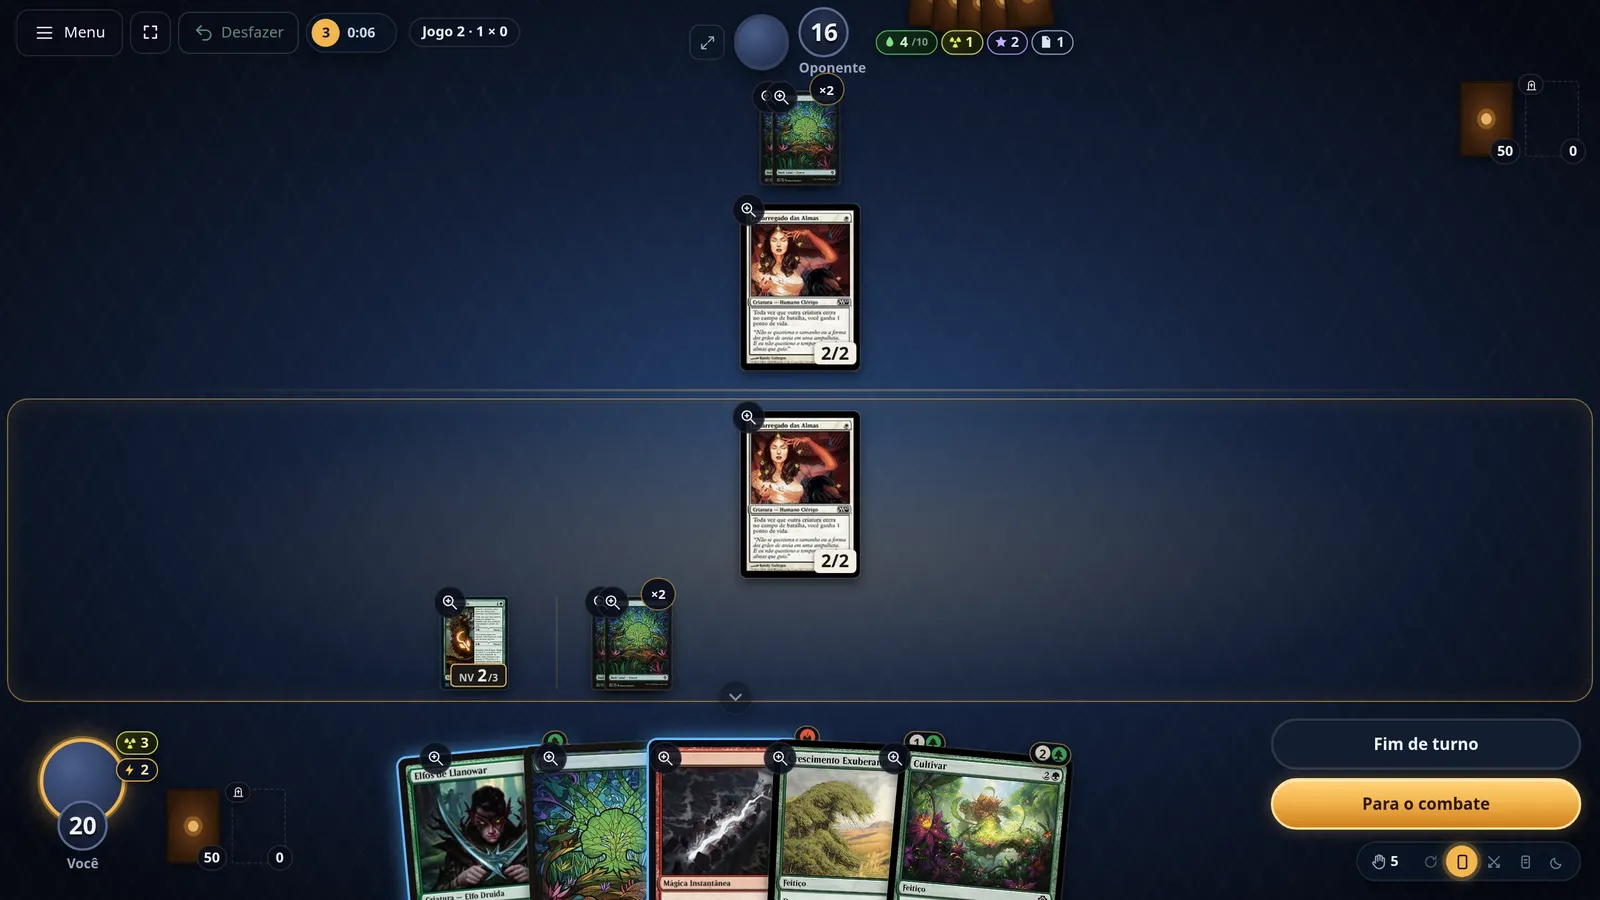
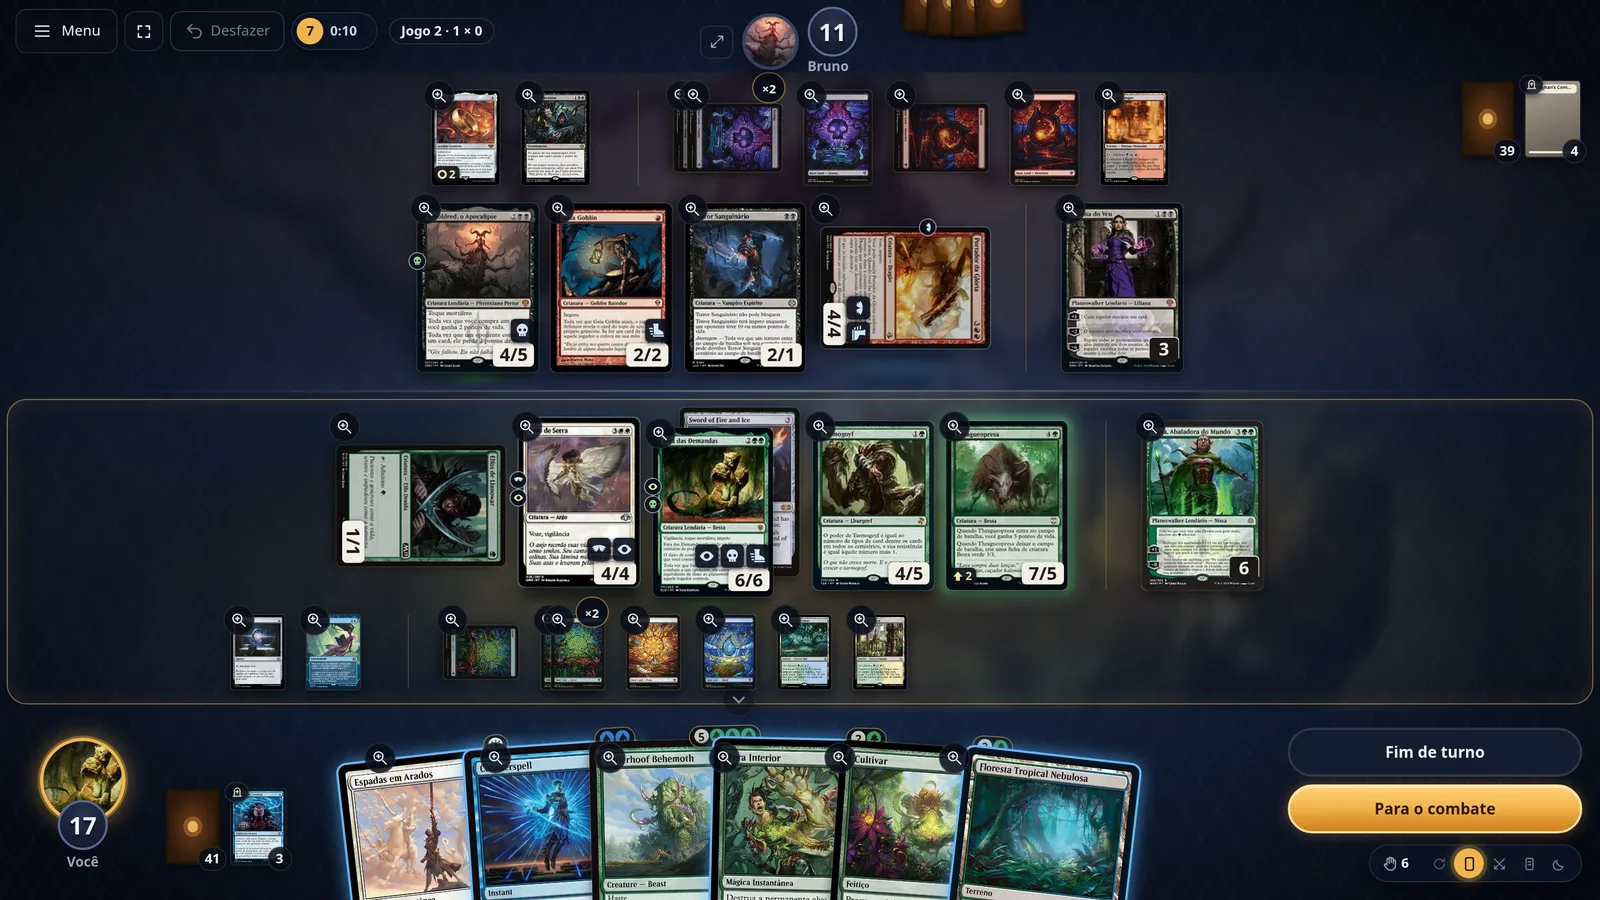
Partida de verdade na abertura da apresentação, com a mesa em destaque e centralizada (0.141.3)
- Imagem nova do alto da /sobre: partida no 7º turno com criaturas,
  planeswalkers, equipamento, artefatos, encantamentos, marcadores e mão
  de seis cartas; versão de 800 px para telas pequenas.
- Coluna da imagem mais larga e centralizada na altura do texto.

diff --git a/sobre.html b/sobre.html
@@ -28,7 +28,7 @@
     <link rel="icon" href="/favicon.ico" sizes="48x48">
     <link rel="icon" type="image/svg+xml" href="/favicon.svg" sizes="any">
     <link rel="apple-touch-icon" href="/apple-touch-icon-180x180.png">
-    <link rel="preload" as="image" href="/sobre/mesa-1x1.webp" type="image/webp">
+    <link rel="preload" as="image" href="/sobre/mesa-1x1.webp" imagesrcset="/sobre/mesa-1x1-800.webp 800w, /sobre/mesa-1x1.webp 1600w" imagesizes="(max-width: 900px) 100vw, 62vw" type="image/webp">
     <link rel="preconnect" href="https://fonts.googleapis.com">
     <link rel="preconnect" href="https://fonts.gstatic.com" crossorigin>
     <link rel="stylesheet" href="https://fonts.googleapis.com/css2?family=Inter:wght@400;600&family=Outfit:wght@700;800&display=optional">
@@ -132,7 +132,7 @@
           </ul>
         </div>
         <figure class="shot hero-shot">
-          <img src="/sobre/mesa-1x1.webp" width="1600" height="900" fetchpriority="high" alt="Partida de Magic na Mesa de Duelo: as cartas na mão embaixo, as criaturas e os terrenos no campo, a vida dos dois jogadores e o botão Para o combate.">
+          <img src="/sobre/mesa-1x1.webp" srcset="/sobre/mesa-1x1-800.webp 800w, /sobre/mesa-1x1.webp 1600w" sizes="(max-width: 900px) 100vw, 62vw" width="1600" height="900" fetchpriority="high" alt="Partida de Magic na Mesa de Duelo no 7º turno: no seu campo, Questing Beast com a Sword of Fire and Ice, Serra Angel, Tarmogoyf e a planeswalker Nissa; no do oponente, Sheoldred, Glorybringer, The One Ring e Liliana of the Veil; embaixo, a sua mão com seis cartas e o botão Para o combate.">
         </figure>
       </section>
 

diff --git a/src/sobre.css b/src/sobre.css
@@ -40,14 +40,14 @@ section[id] { scroll-margin-top: 72px; }
 .btn-ghost:hover { border-color: var(--gold); filter: none; }
 
 h1, h2, h3 { font-family: var(--display); line-height: 1.15; margin: 0; }
-h1 { font-size: clamp(32px, 5vw, 52px); font-weight: 800; color: var(--gold-light); }
+h1 { font-size: clamp(32px, 4.2vw, 50px); font-weight: 800; color: var(--gold-light); }
 h2 { font-size: clamp(24px, 3.2vw, 34px); font-weight: 800; color: var(--gold-light); margin-bottom: 18px; }
 h3 { font-size: 19px; font-weight: 700; color: var(--ink); margin-bottom: 6px; }
 p { margin: 0 0 14px; }
 
-/* Imagem presa ao alto: centralizada, ela pulava quando a fonte dos títulos chegava e mudava a altura do texto. */
-.hero { display: grid; grid-template-columns: minmax(0, 5fr) minmax(0, 7fr); gap: 40px; align-items: start; padding-block: 32px 56px; }
-.hero-shot { margin-top: 36px; }
+/* Imagem centralizada na altura do texto. Não pula quando as fontes chegam porque elas vêm com display=optional
+   (sobre.html): ou chegam logo, ou a página fica com a do sistema. */
+.hero { display: grid; grid-template-columns: minmax(0, 4fr) minmax(0, 7fr); gap: 36px; align-items: center; padding-block: 32px 56px; }
 .lead { font-size: 18px; color: var(--azul-c9d0de, #c9d0de); margin-top: 18px; }
 .cta { display: flex; flex-wrap: wrap; align-items: center; gap: 12px 18px; margin-top: 24px; }
 .eyebrow { margin: 0 0 12px; font-size: 13px; font-weight: 700; letter-spacing: .12em; text-transform: uppercase; color: var(--gold); }

diff --git a/CHANGELOG.md b/CHANGELOG.md
@@ -8,6 +8,12 @@ Todas as mudanças que você sente na mesa. As versões seguem o formato **X.Y.Z
 
 As versões anteriores à 0.100.0 estão em [docs/changelog-antigo.md](docs/changelog-antigo.md).
 
+## [0.141.3] - 2026-11-06
+
+### Mudou
+
+- **Partida de verdade na abertura da apresentação.** A imagem do alto da página /sobre agora mostra uma partida no meio do jogo: dos dois lados, criaturas, terrenos, artefatos, encantamentos e um planeswalker, uma espada equipada, marcadores, criaturas viradas, a arte de cada deck nos retratos e uma mão de seis cartas prontas para jogar.
+
 ## [0.141.2] - 2026-11-06
 
 ### Mudou
